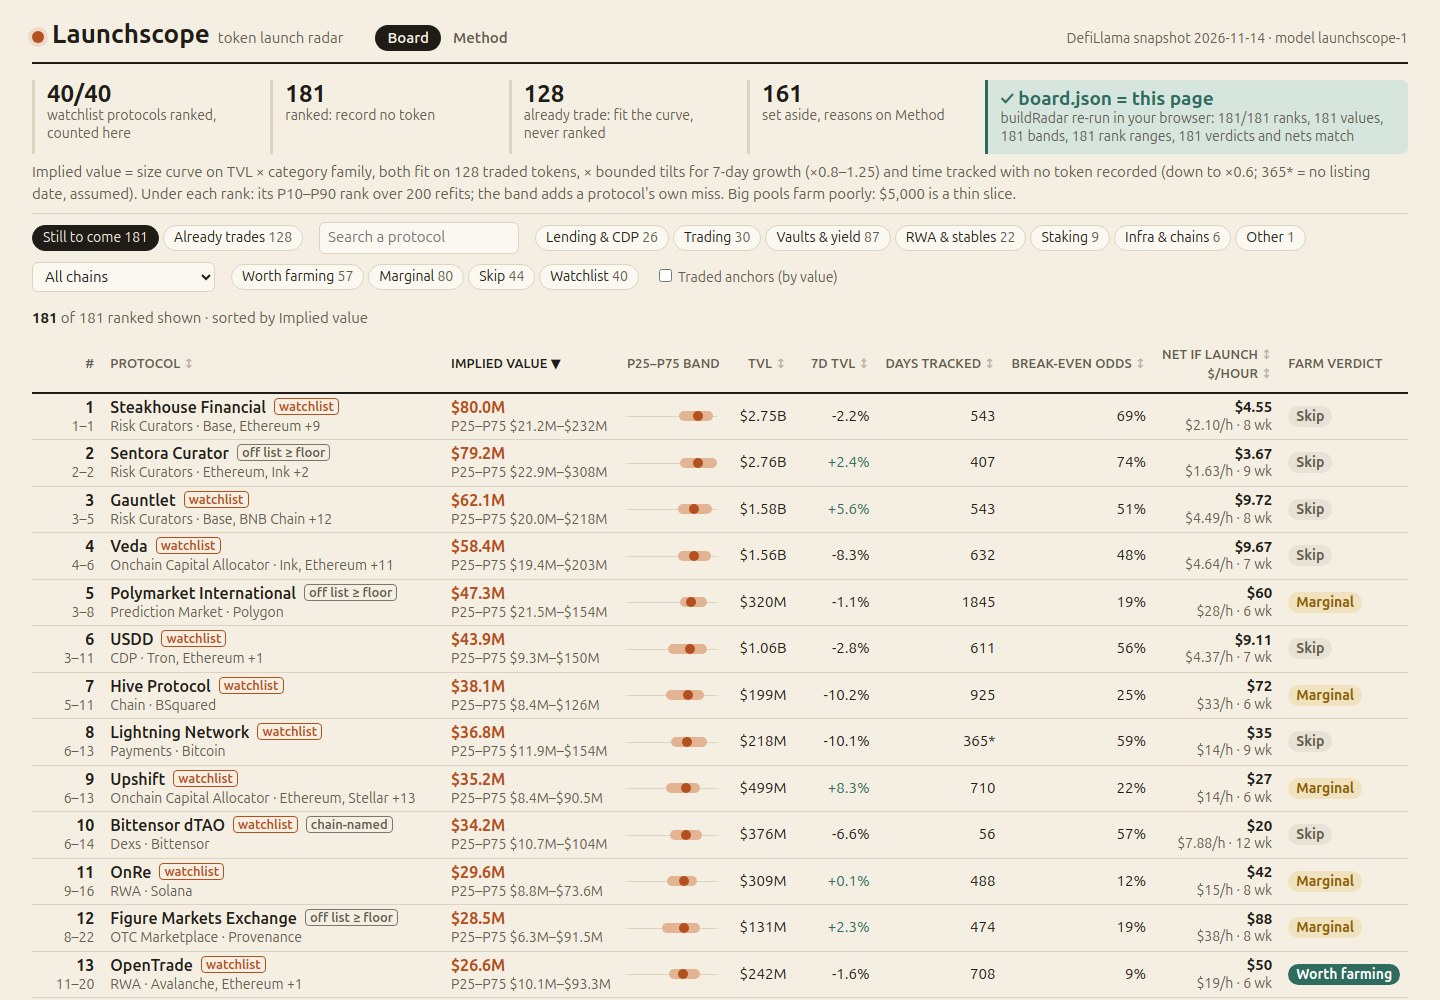
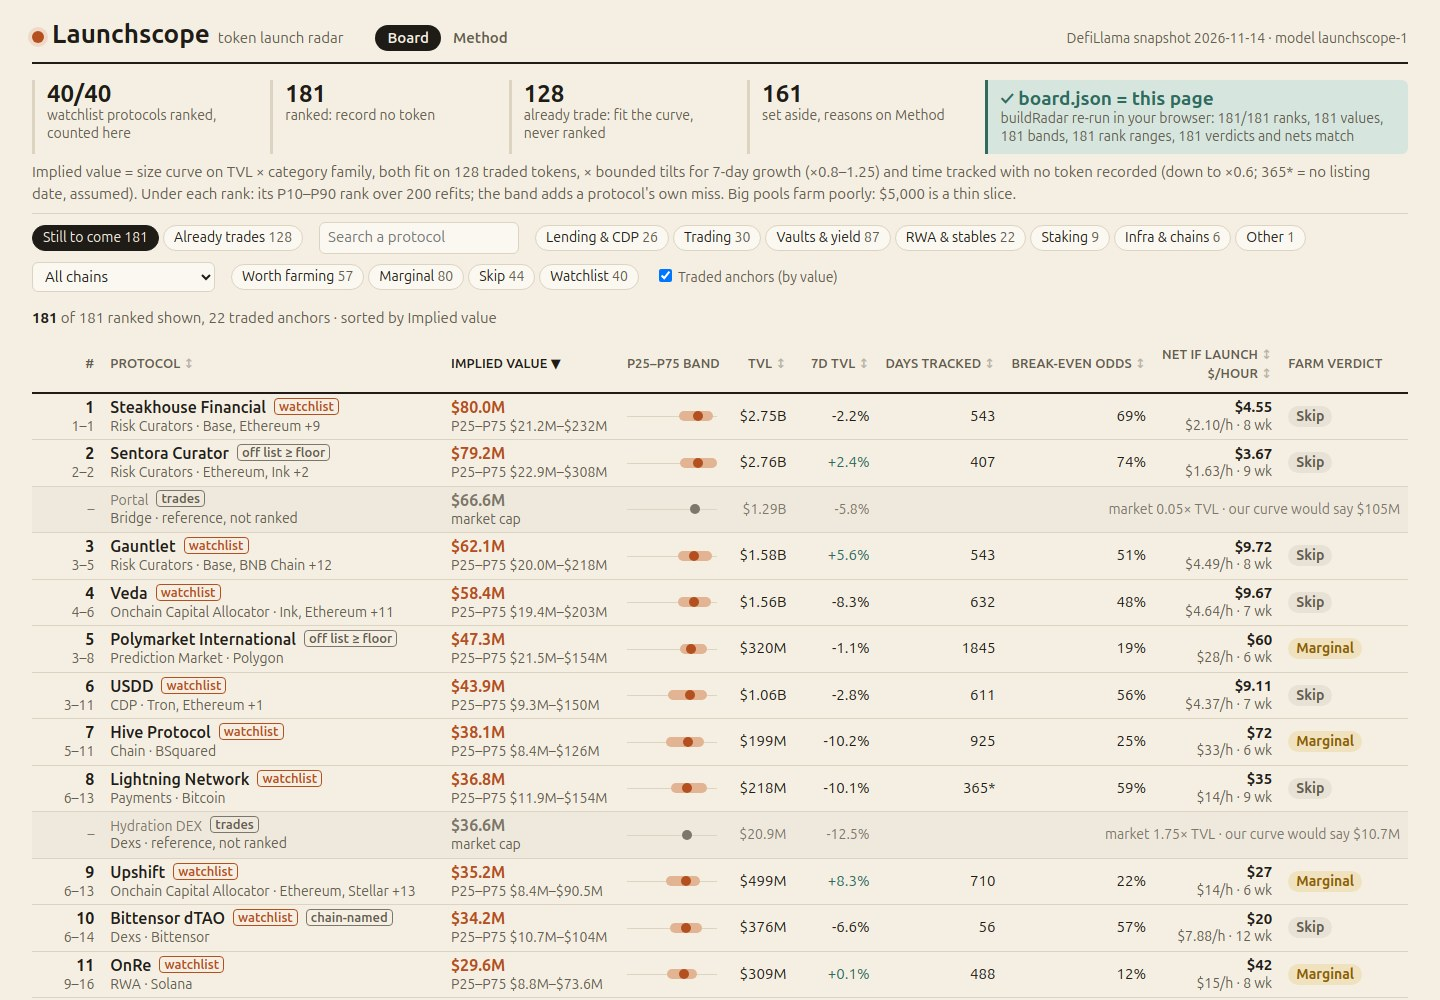
Traded anchors on by default: grey reference rows among the ranks
The first screen again shows tokens that trade as grey 'reference, not
ranked' rows at their market caps with the market-vs-curve note, so the
traded vs still-to-come split is visible at once; the counter still says
181 of 181 ranked shown and the toggle switches them off.

diff --git a/dashboard/radar.js b/dashboard/radar.js
@@ -33,7 +33,7 @@
 
   // -- state in the URL hash
 
-  const DEFAULTS = { tab: '', fam: '', chain: '', verdict: '', watch: '', q: '', anchors: '', sort: 'value', dir: 'desc' };
+  const DEFAULTS = { tab: '', fam: '', chain: '', verdict: '', watch: '', q: '', anchors: '1', sort: 'value', dir: 'desc' };
   const SORTS = {
     value: (r) => r.iv.value, name: (r) => r.name.toLowerCase(), tvl: (r) => r.tvl_usd, growth: (r) => (r.change_7d === null ? -1e9 : r.change_7d),
     days: (r) => (r.iv.days === null ? -1 : r.iv.days), odds: (r) => r.plan.breakEven, net: (r) => r.plan.net, perhour: (r) => r.plan.perHour,
